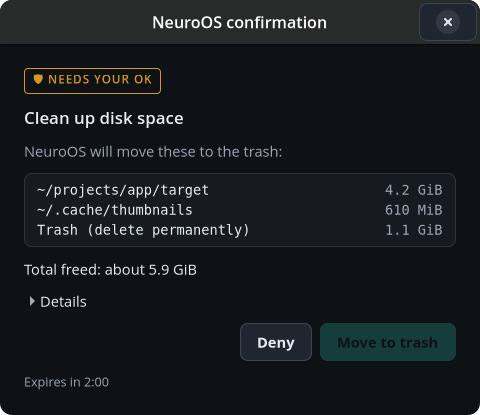
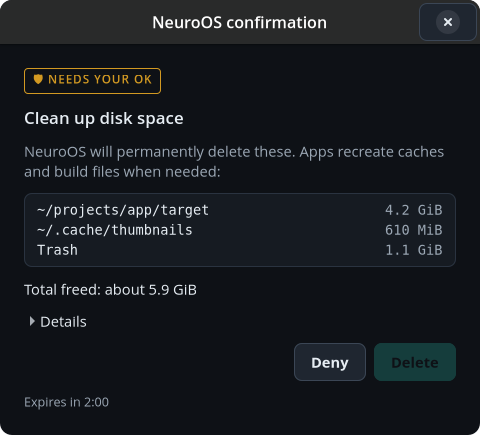
fix(p2-s03): dialog lists sizes on one line; delete-forever suffix only in mixed lists
Screenshots retaken for the report (cleanup, tainted).

diff --git a/crates/neuroos-confirm/src/ui.rs b/crates/neuroos-confirm/src/ui.rs
@@ -190,20 +190,25 @@ fn items_list(req: &DialogRequest) -> Option<gtk::Widget> {
         .row_spacing(4)
         .build();
     grid.add_css_class("items");
+    // The suffix only matters when a list mixes "to the trash" with "for good";
+    // when everything is deleted for good, the lead sentence already says so.
+    let mixed = req.items.iter().any(|i| i.kind == ItemKind::MoveToTrash)
+        && req.items.iter().any(|i| i.kind == ItemKind::DeleteForever);
     for (row, item) in (0_i32..).zip(&req.items) {
         let shown = match item.kind {
-            ItemKind::MoveToTrash => format::middle_truncate(&item.path, PATH_CHARS),
-            ItemKind::DeleteForever => format!(
+            ItemKind::DeleteForever if mixed => format!(
                 "{} {}",
                 format::middle_truncate(&item.path, PATH_CHARS - 20),
                 wording::DELETE_FOREVER_SUFFIX
             ),
+            _ => format::middle_truncate(&item.path, PATH_CHARS),
         };
         let path = label(&shown, &["mono"]);
         path.set_wrap(false);
         path.set_hexpand(true);
         path.set_tooltip_text(Some(&item.path));
         let size = label(&format::size(item.size_bytes), &["mono", "size"]);
+        size.set_wrap(false);
         size.set_xalign(1.0);
         grid.attach(&path, 0, row, 1, 1);
         grid.attach(&size, 1, row, 1, 1);
